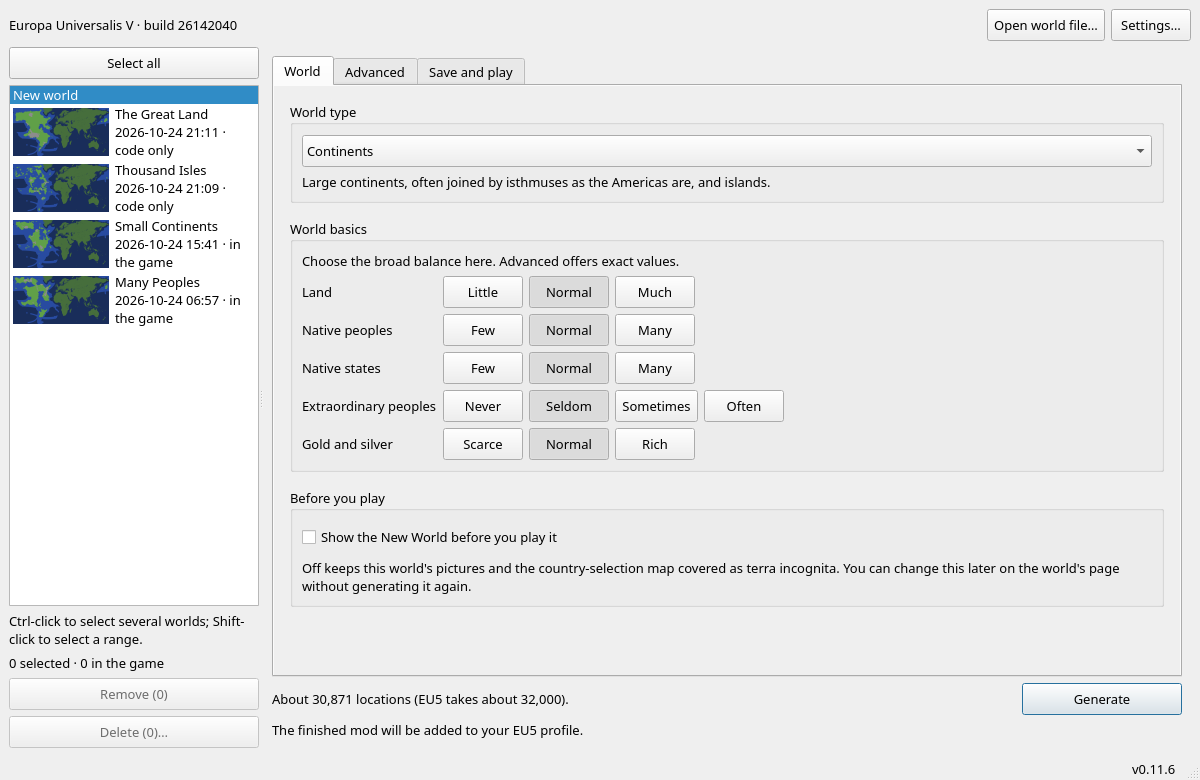
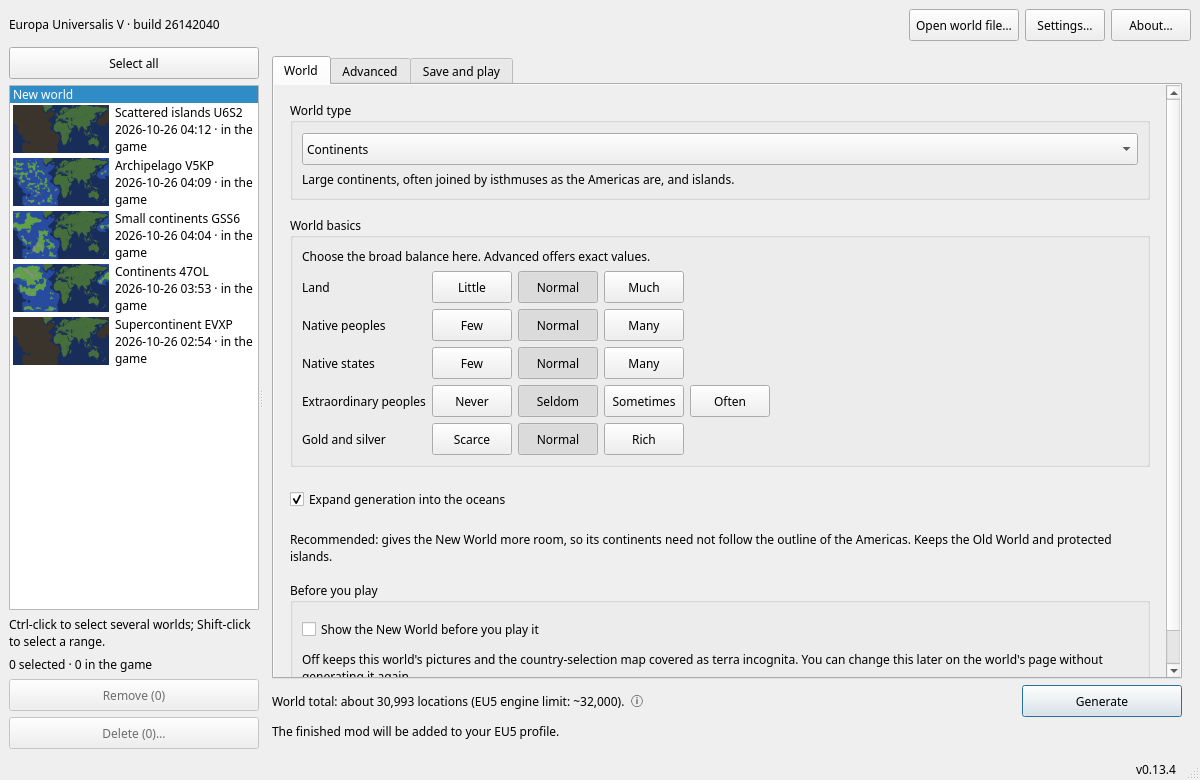
Refresh README screenshots for 0.13.4

diff --git a/docs/legal.md b/docs/legal.md
@@ -20,7 +20,7 @@ This is project risk analysis, not legal advice. [SOURCE] The [Paradox User Agre
 
 Limits: copyright protects the code, not the idea of a generated New World; anyone, Paradox included, may build the same idea anew. The licence binds others only as far as the owner holds copyright; how far code written with AI assistance is protected depends on the human contribution and the jurisdiction [UNKNOWN]. Paradox's User Agreement (§5) has the creator grant Paradox a broad, sublicensable licence to published UGC, independent of the MPL, for the owner's own work. The EU5 Steam listing links to that agreement, but the exact scope for an item uploaded through Valve's Workshop and its interaction with Valve's Workshop terms remain [UNKNOWN C267]. That grant cannot extend to the third-party libraries in the item, which keep their own licences (their texts and a notices file travel in the item). The generated worlds are the program's output, not covered by our licence, and carry Paradox-derived content for local use only. Outside contributions come under the MPL with a sign-off (the Developer Certificate of Origin); the MPL already lets them into a larger closed work, so only a change to a different licence would need a contributor licence agreement. The mod's script files (interface, localization, game rules) are our own text in Paradox's formats; anything copied from vanilla stays Paradox's and is not relicensed.
 
-**Screenshots (owner, 2026-10-24).** Screenshots of the generator's window, which show the Old World's map from the game beside the generated New World, may be published in the README (`docs/images/`) and on the Workshop page. The owner decided this on a language model's reading, which they shared, of the rules on screenshots and videos of Paradox's games in the [Paradox user agreement](https://legal.paradoxplaza.com/eula) (not checked against the agreement's text here; not legal advice), and it does not clear files of the game, textures, models or the rasters a world is made of, which are never published [INFERRED C15; UNKNOWN C267]. The README says that the game is Paradox's and that the project is unofficial. The images are made on a demo library with the platform's plain light style, with no path, name or hardware of the machine in them.
+**Screenshots (owner, 2026-10-24 and 2026-10-26).** Screenshots of the generator's window, which show the Old World's map from the game beside the generated New World, may be published in the README (`docs/images/`) and on the Workshop page. The owner decided this on a language model's reading, which they shared, of the rules on screenshots and videos of Paradox's games in the [Paradox user agreement](https://legal.paradoxplaza.com/eula) (not checked against the agreement's text here; not legal advice), and it does not clear files of the game, textures, models or the rasters a world is made of, which are never published [INFERRED C15; UNKNOWN C267]. The README says that the game is Paradox's and that the project is unofficial. On 2026-10-26 the owner asked for the README screenshots to feature the existing **Supercontinent EVXP**. The current 0.13.4 generator was rendered against a temporary copy of the owner's generated-world library; the installed profile was read only. The screenshots use the platform's plain light style and omit local paths, hardware metrics and machine-identifying details.
 
 **Public repository (2026-10-24).** Before the repository was first published on GitHub (`Sir-Starch/eu5-random-new-world`), every revision of its history was checked for game files and personal data. No game asset, derived raster, log, save or screenshot had ever been committed. Local machine details (installation paths, hardware, operating system) were replaced in all revisions, and the commits carry the maintainer's public address. The rule is kept by tests: `packaging/allowlist.py` rejects any path of the game or of a generated world, both in the repository and in every release archive. The README states that the project is not affiliated with Paradox Interactive and that *Europa Universalis* is Paradox's trademark.
 

diff --git a/README.md b/README.md
@@ -39,24 +39,24 @@ Installed RNW worlds with a readable world code appear in the generator's librar
 
 ## Screenshots
 
-The generator's window (Qt, the platform's own controls) on a demo library. The New World stays covered until you choose to show it; the pictures of the worlds here have been shown.
+The current generator window (Qt, the platform's own controls) with the owner's generated worlds in the library. Supercontinent EVXP is the featured world throughout the overview and map views. The screenshots show the current 0.13.4 interface, including its covered view and the maps available after revealing the world.
 
 <table>
 <tr>
-<td width="50%"><img src="docs/images/01-new-world.png" alt="The new-world page: a world type and a few broad choices"><br><sub>Pick a world type and a few broad choices; exact values are one tab away.</sub></td>
-<td width="50%"><img src="docs/images/02-customize.png" alt="Seed, world code and exact values for land and sea"><br><sub>Or set every value by hand, within the range that still plays.</sub></td>
+<td width="50%"><img src="docs/images/01-new-world.png" alt="The current new-world page beside a library of generated worlds"><br><sub>Choose a world type and broad settings; Supercontinent EVXP and other generated worlds stay in the library.</sub></td>
+<td width="50%"><img src="docs/images/02-customize.png" alt="Advanced world settings with a seed and reproducible world code"><br><sub>Set a seed, copy a world code, or adjust exact values.</sub></td>
 </tr>
 <tr>
-<td width="50%"><img src="docs/images/03-generating.png" alt="A world being generated, with the stages listed"><br><sub>A world takes a few minutes; every stage is shown and the work can be cancelled.</sub></td>
-<td width="50%"><img src="docs/images/04-world.png" alt="A finished world in the library, its New World shown on the map"><br><sub>Every world is kept in the library, with its picture, notes and versions.</sub></td>
+<td width="50%"><img src="docs/images/03-world-overview.png" alt="Supercontinent EVXP's overview with its covered New World preview"><br><sub>Supercontinent EVXP's overview keeps its New World covered by default.</sub></td>
+<td width="50%"><img src="docs/images/04-world-maps.png" alt="The generated land layer for Supercontinent EVXP"><br><sub>Reveal the world to inspect its geography and the summary of its peoples.</sub></td>
 </tr>
 <tr>
-<td width="50%"><img src="docs/images/05-maps-cultures.png" alt="The cultures of a world on its map, with a search"><br><sub>Maps of the finished world: cultures, with a search for any people, country or place.</sub></td>
-<td width="50%"><img src="docs/images/08-maps-religions.png" alt="The religions of a world on its map"><br><sub>Religions, countries, resources and development have their own layers.</sub></td>
+<td width="50%"><img src="docs/images/05-world-countries.png" alt="Countries in Supercontinent EVXP on the generated map"><br><sub>See Supercontinent EVXP's countries and search for peoples and places.</sub></td>
+<td width="50%"><img src="docs/images/06-world-development.png" alt="Start development in Supercontinent EVXP"><br><sub>Inspect start development and other map layers alongside terrain.</sub></td>
 </tr>
 <tr>
-<td width="50%"><img src="docs/images/06-maps-development.png" alt="Start development of a world on its map"><br><sub>Where the peoples are many and where the land is empty.</sub></td>
-<td width="50%"><img src="docs/images/07-world-covered.png" alt="A world whose New World is covered as terra incognita"><br><sub>By default the New World stays terra incognita, here and in the game, until you play it.</sub></td>
+<td width="50%"><img src="docs/images/07-world-covered.png" alt="Supercontinent EVXP's map stays covered until the player reveals it"><br><sub>The world stays covered in the Maps tab until you choose to reveal it.</sub></td>
+<td width="50%"><img src="docs/images/08-world-religions.png" alt="Religions in Supercontinent EVXP shown on the map"><br><sub>Religions have their own map layer and legend.</sub></td>
 </tr>
 </table>
 
